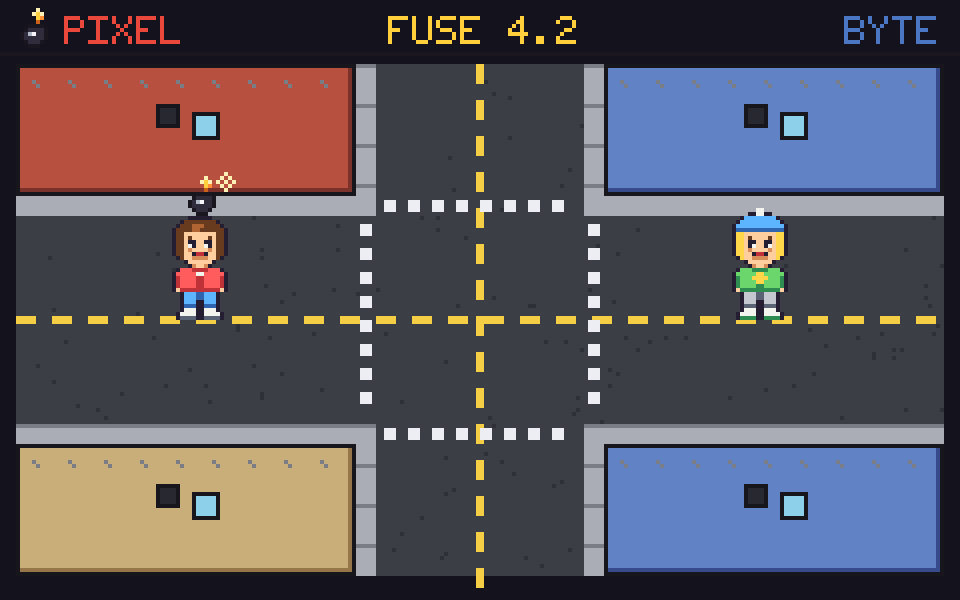
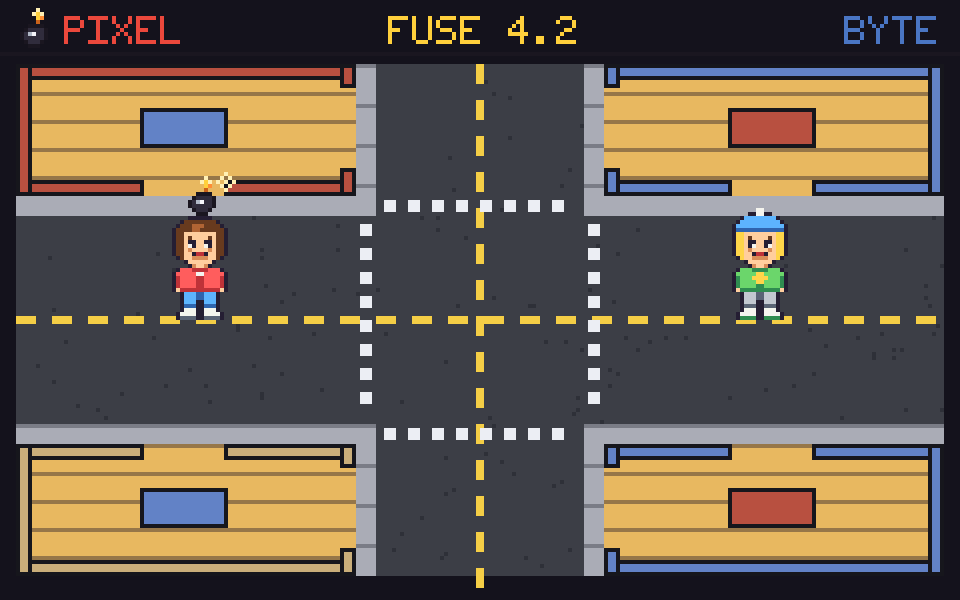
Hot Potato street: make the houses enterable with 2 doorways each
Each of the 4 corner houses is now a walled building with a walkable
interior (wood floor + rug) and two entrances on its two road-facing
sides, so players can cut through. Collision is the wall segments
(_house_walls), leaving the doorways as real gaps; street_obs() returns
those segments.

Claude-Session: https://claude.ai/code/session_01BmHu9ZjHHfJoGBLXT33Kpc

diff --git a/art/hotpotato.py b/art/hotpotato.py
@@ -300,19 +300,36 @@ def scol(k): return (*STR[k], 255)
 RW, SW = 26, 5                                            # half road width, sidewalk width
 def _street_rects():
     vL, vR, hT, hB = CX - RW, CX + RW, CY - RW, CY + RW
-    return [(FX, FY, vL - SW, hT - SW, "R"), (vR + SW, FY, FX + FW, hT - SW, "U"),
-            (FX, hB + SW, vL - SW, FY + FH, "T"), (vR + SW, hB + SW, FX + FW, FY + FH, "U")]
+    # each house's 2 entrances face the two roads it borders
+    return [(FX, FY, vL - SW, hT - SW, "R", {"right", "bottom"}),
+            (vR + SW, FY, FX + FW, hT - SW, "U", {"left", "bottom"}),
+            (FX, hB + SW, vL - SW, FY + FH, "T", {"right", "top"}),
+            (vR + SW, hB + SW, FX + FW, FY + FH, "U", {"left", "top"})]
 
-def _bld(px, W, H, x0, y0, x1, y1, ck):
-    rectf(px, W, H, x0, y0, x1, y1, scol(ck))
-    for x in range(x0, x1): sp(px, W, H, x, y1 - 1, scol(ck.lower())); sp(px, W, H, x, y1 - 2, scol(ck.lower()))
-    for y in range(y0, y1): sp(px, W, H, x1 - 1, y, scol(ck.lower())); sp(px, W, H, x1 - 2, y, scol(ck.lower()))
-    orect(px, W, H, x0, y0, x1, y1, scol("K"), 1)
-    cxm, cym = (x0 + x1) // 2, (y0 + y1) // 2             # rooftop details
-    rectf(px, W, H, cxm - 7, cym - 6, cxm - 1, cym, scol("M")); orect(px, W, H, cxm - 7, cym - 6, cxm - 1, cym, scol("K"))
-    rectf(px, W, H, cxm + 2, cym - 4, cxm + 9, cym + 3, scol("G")); orect(px, W, H, cxm + 2, cym - 4, cxm + 9, cym + 3, scol("K"))
-    for gx in range(x0 + 4, x1 - 5, 9):                  # gravel/AC dots
-        sp(px, W, H, gx, y0 + 4, scol("s")); sp(px, W, H, gx + 1, y0 + 5, scol("s"))
+WT, DW = 4, 20                                            # wall thickness, doorway width
+def _house_walls(x0, y0, x1, y1, doors):
+    cx, cy = (x0 + x1) // 2, (y0 + y1) // 2
+    gx0, gx1, gy0, gy1 = cx - DW // 2, cx + DW // 2, cy - DW // 2, cy + DW // 2
+    w = []
+    w += ([(x0, y0, gx0, y0 + WT), (gx1, y0, x1, y0 + WT)] if "top" in doors else [(x0, y0, x1, y0 + WT)])
+    w += ([(x0, y1 - WT, gx0, y1), (gx1, y1 - WT, x1, y1)] if "bottom" in doors else [(x0, y1 - WT, x1, y1)])
+    w += ([(x0, y0, x0 + WT, gy0), (x0, gy1, x0 + WT, y1)] if "left" in doors else [(x0, y0, x0 + WT, y1)])
+    w += ([(x1 - WT, y0, x1, gy0), (x1 - WT, gy1, x1, y1)] if "right" in doors else [(x1 - WT, y0, x1, y1)])
+    return w
+
+def _bld(px, W, H, x0, y0, x1, y1, ck, doors):
+    dk = ck.lower()
+    rectf(px, W, H, x0, y0, x1, y1, scol("C"))            # warm interior floor
+    for gy in range(y0, y1, 7):                           # plank lines
+        for gx in range(x0, x1): sp(px, W, H, gx, gy, scol("t"))
+    cxm, cym = (x0 + x1) // 2, (y0 + y1) // 2             # little rug inside
+    rug = "U" if ck != "U" else "R"
+    rectf(px, W, H, cxm - 11, cym - 5, cxm + 11, cym + 5, scol(rug)); orect(px, W, H, cxm - 11, cym - 5, cxm + 11, cym + 5, scol("K"))
+    for (wx0, wy0, wx1, wy1) in _house_walls(x0, y0, x1, y1, doors):   # brick walls (with door gaps)
+        rectf(px, W, H, wx0, wy0, wx1, wy1, scol(ck))
+        for x in range(wx0, wx1): sp(px, W, H, x, wy1 - 1, scol(dk))
+        for y in range(wy0, wy1): sp(px, W, H, wx1 - 1, y, scol(dk))
+        orect(px, W, H, wx0, wy0, wx1, wy1, scol("K"), 1)
 
 def _draw_street(img, bomb=True, players=True):
     px = img.load(); W, H = img.size
@@ -336,7 +353,7 @@ def _draw_street(img, bomb=True, players=True):
         rectf(px, W, H, x, hT - 4, x + 3, hT - 1, scol("W")); rectf(px, W, H, x, hB + 1, x + 3, hB + 4, scol("W"))
     for y in range(hT + 2, hB - 2, 6):                    # crosswalks across the horizontal road
         rectf(px, W, H, vL - 4, y, vL - 1, y + 3, scol("W")); rectf(px, W, H, vR + 1, y, vR + 4, y + 3, scol("W"))
-    for (x0, y0, x1, y1, ck) in _street_rects(): _bld(px, W, H, x0, y0, x1, y1, ck)
+    for (x0, y0, x1, y1, ck, doors) in _street_rects(): _bld(px, W, H, x0, y0, x1, y1, ck, doors)
     if players: _draw_actors(img, bomb)
 
 # ===========================================================================
@@ -398,7 +415,12 @@ def _draw_house(img, bomb=True, players=True):
 
 # --------------------------------------------------------------------------
 def yard_obs(): return [{"type": "circle", "x": bx + 7, "y": by + 13, "r": 6} for (bx, by) in BARRELS]
-def street_obs(): return [{"type": "rect", "x": x0, "y": y0, "w": x1 - x0, "h": y1 - y0} for (x0, y0, x1, y1, ck) in _street_rects()]
+def street_obs():
+    obs = []
+    for (x0, y0, x1, y1, ck, doors) in _street_rects():
+        for (wx0, wy0, wx1, wy1) in _house_walls(x0, y0, x1, y1, doors):
+            obs.append({"type": "rect", "x": wx0, "y": wy0, "w": wx1 - wx0, "h": wy1 - wy0})
+    return obs
 def house_obs():
     return ([{"type": "rect", "x": x0, "y": y0, "w": x1 - x0, "h": y1 - y0} for (x0, y0, x1, y1) in HOUSE_WALLS]
             + [{"type": "rect", "x": x0, "y": y0, "w": x1 - x0, "h": y1 - y0} for (x0, y0, x1, y1, k) in HOUSE_FURN])
